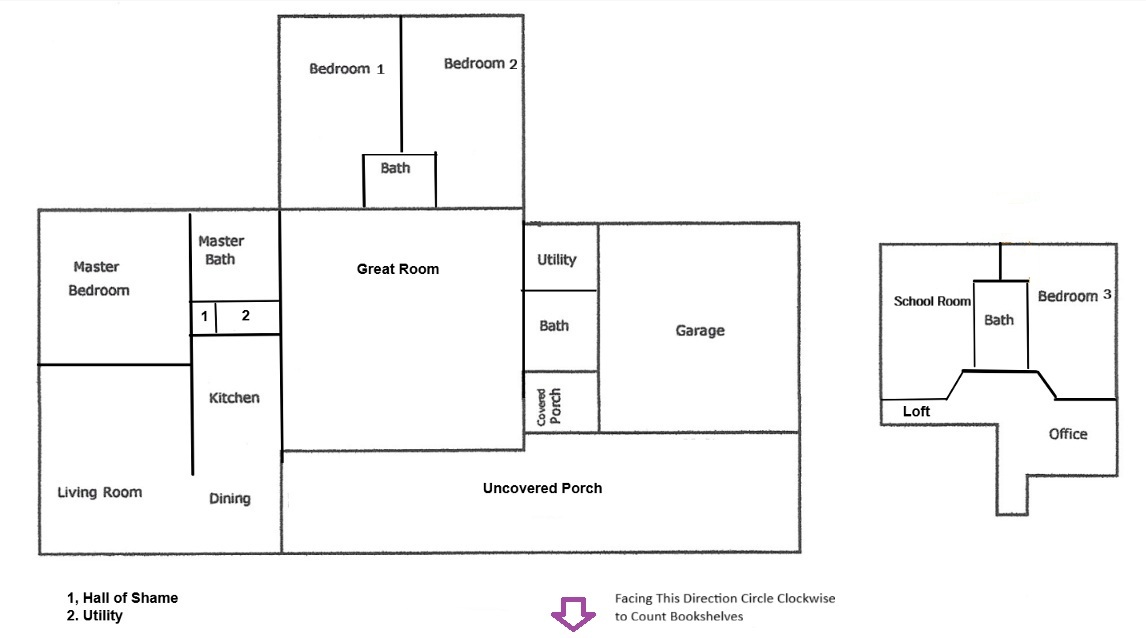
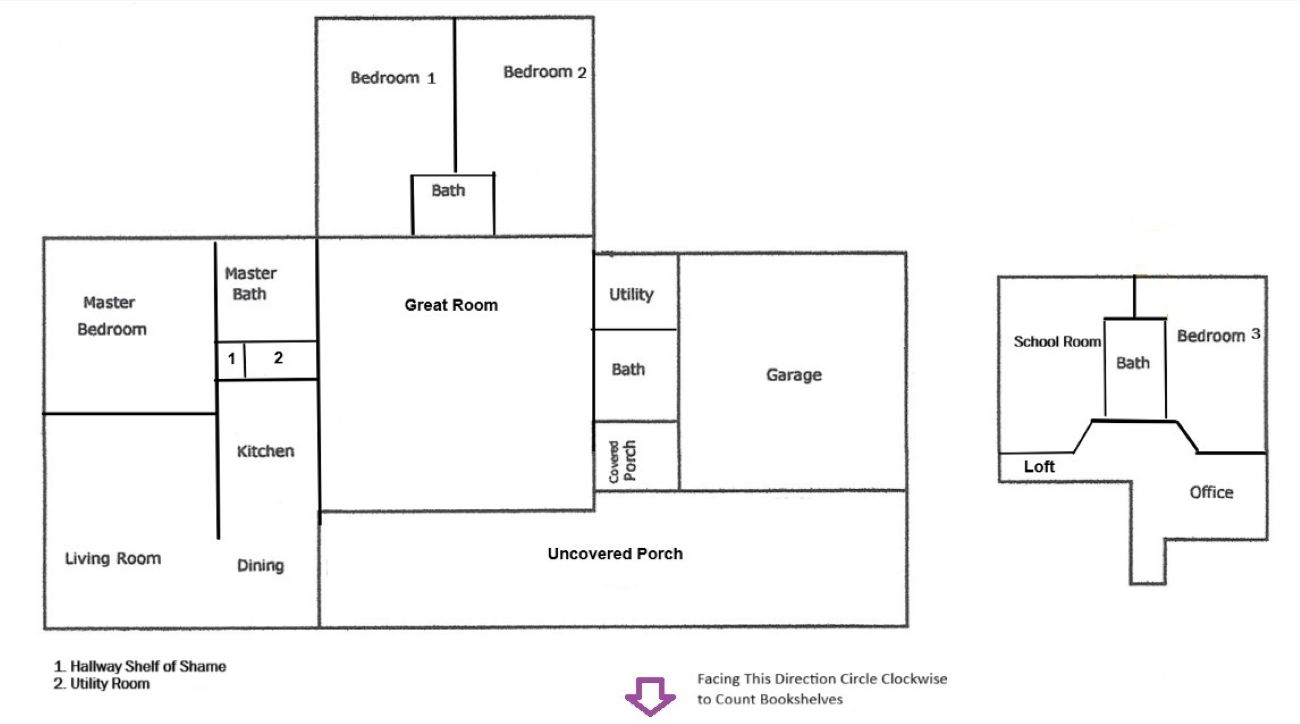
added dropdown rule

diff --git a/src/app/book-create/book-create.ts b/src/app/book-create/book-create.ts
@@ -17,6 +17,21 @@ export class BookCreate {
   router: Router = inject(Router);
   bookService: BookService = inject(BookService);
   showValidationModal = false;
+
+locations = [
+  "Master Bedroom",
+  "Living Room",
+  "Hallway Shelf of Shame",
+  "Great Room",
+  "School Room",
+  "Loft",
+  "Office",
+  "Dining",
+  "Bedroom 1",
+  "Bedroom 2",
+  "Bedroom 3"
+];
+
   newBookForm = new FormGroup({
     title: new FormControl('', Validators.required),
     author_first_name: new FormControl('', Validators.required),
@@ -40,11 +55,11 @@ async createBook() {
   try {
     const result = await this.bookService.createBook(newBook);
     this.router.navigate([`/books/${result.id}`]);
-
   } catch (error) {
     console.error('Error creating book:', error);
   }
 }
+
 closeValidationModal() {
   this.showValidationModal = false;
 }

diff --git a/src/app/book-create/book-create.html b/src/app/book-create/book-create.html
@@ -32,9 +32,13 @@
 
         <div class="form-group">
           <label for="location">Location :</label>
-          <input id="location" formControlName="location" type="text">
+          <select id="location" formControlName="location">
+            <option value="">-- Select a Room --</option>
+              @for (loc of locations; track loc) {
+            <option [value]="loc">{{ loc }}</option>
+            }
+          </select>
         </div>
-
         <div class="form-group">
           <label for="bookcase">Book Case # :</label>
           <input id="bookcase" formControlName="bookcase" type="number" min="0" max="20">

diff --git a/src/app/book-edit/book-edit.html b/src/app/book-edit/book-edit.html
@@ -33,9 +33,12 @@
 
       <div class="form-group">
         <label for="location">Location :</label>
-        <input id="location" formControlName="location" type="text">
+        <select id="location" formControlName="location">
+          @for (loc of locations; track loc) {
+          <option [value]="loc">{{ loc }}</option>
+        }
+        </select>
       </div>
-
       <div class="form-group">
         <label for="bookcase">Book Case # :</label>
         <input id="bookcase" formControlName="bookcase" type="number" min="0" max="20">

diff --git a/src/app/book-edit/book-edit.ts b/src/app/book-edit/book-edit.ts
@@ -17,6 +17,20 @@ export class BookEdit {
   bookId: string = '';
   currentBook!: BookType;
 
+  locations = [
+    'Master Bedroom',
+    'Living Room',
+    'Hallway Shelf of Shame',
+    'Great Room',
+    'School Room',
+    'Loft',
+    'Office',
+    'Dining',
+    'Bedroom 1',
+    'Bedroom 2',
+    'Bedroom 3',
+  ];
+
   // NEW — for popup modal
   showEditValidationModal = false;
 

diff --git a/src/app/book-overview/book-overview.css b/src/app/book-overview/book-overview.css
@@ -1,6 +1,6 @@
 .overview-picture {
-  max-width: 500px;
-  margin-bottom: 20px;
+  max-width: 600px;
+  margin-bottom: 10px;
 }
 .book-overview-container {
   display: flex;
@@ -8,8 +8,8 @@
   align-items: center;
   background-color: #f5ecff;
   border-radius: 20px;
-  padding: 30px;
-  margin-bottom: 30px;
+  padding: 20px;
+  margin-bottom: 20px;
 }
 .overview-buttons {
   gap: 30px;

diff --git a/src/styles.css b/src/styles.css
@@ -13,6 +13,17 @@
 .nav-link.active {
   color: #de1bb0 !important;
 }
+nav.navbar {
+  padding-top: 0.25rem !important;
+  padding-bottom: 0. !important;
+}
+.navbar-brand img {
+  height: 32px;
+}
+.navbar-nav .nav-link {
+  padding-top: 0.25rem !important;
+  padding-bottom: 0.25rem !important;
+}
 .divider {
   width: 2px;
   background: linear-gradient(
